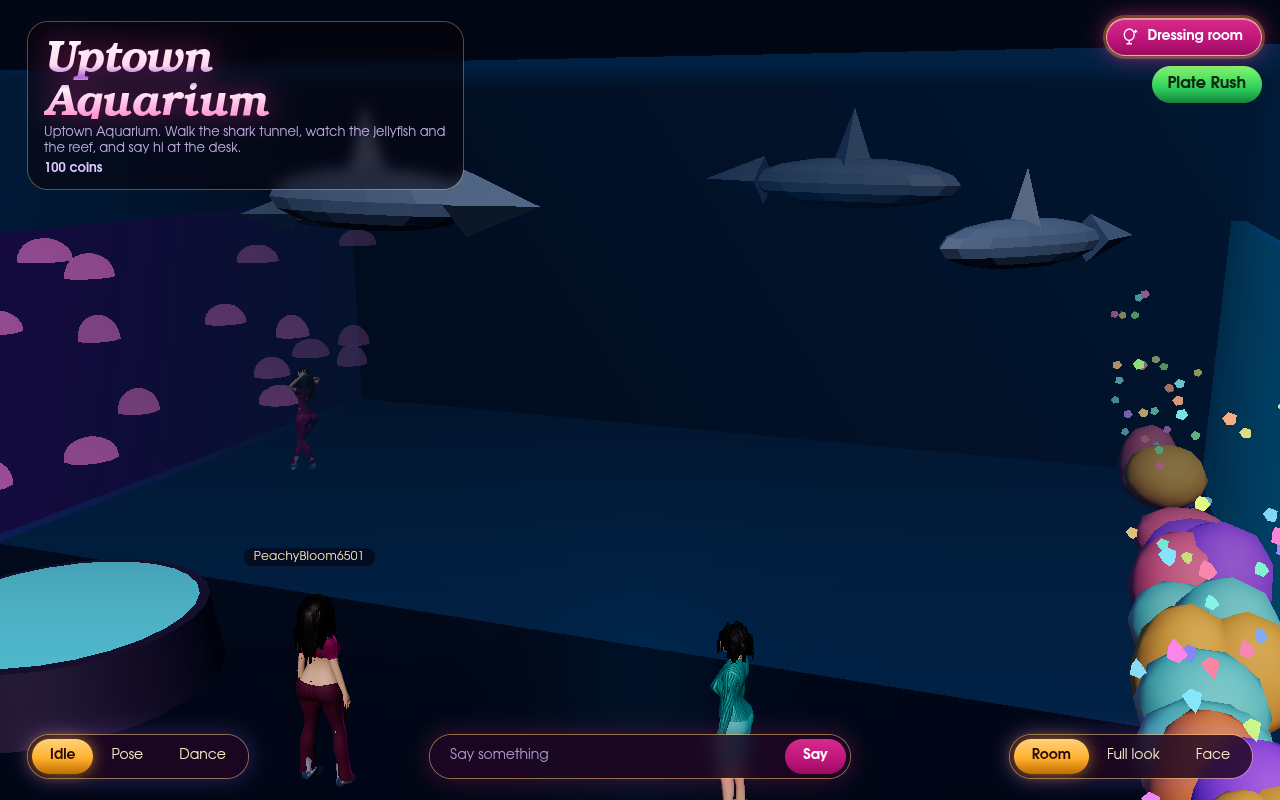
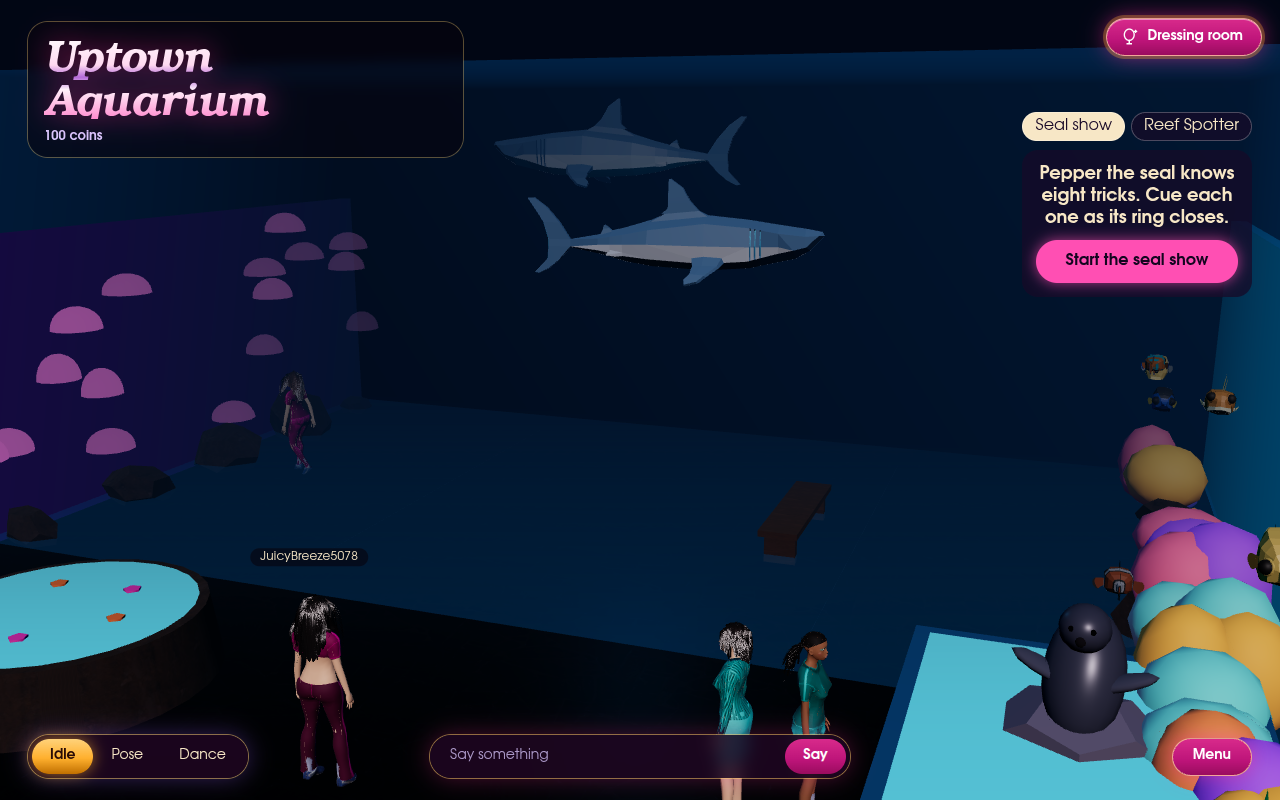
feat(aquarium): animated sharks, manta and reef fish from the Quaternius fish packs

diff --git a/src/client/rooms/Aquarium.tsx b/src/client/rooms/Aquarium.tsx
@@ -1,4 +1,9 @@
 import { SealShow } from "./aquarium/SealShow.tsx";
+import { Suspense } from "react";
+import { SwimmingCreature } from "../creatures/Swimmer.tsx";
+import type { CreaturePose } from "../creatures/Creature.tsx";
+import type { FishKind } from "../../game/creatures.ts";
+import { useQuality } from "../world/quality.ts";
 import { useFrame } from "@react-three/fiber";
 import { useLayoutEffect, useMemo, useRef } from "react";
 import * as THREE from "three";
@@ -57,9 +62,7 @@ const CONTEXT: DialogueContext = { venue: "aquarium", neighborhood: "uptown" };
 
 // The shark tunnel: a glass half-pipe over the middle aisle, water beyond it.
 const TUNNEL = { z0: -6, z1: 1, radius: 3.2 };
-const SHARKS = 4;
 const JELLIES = 22;
-const FISH = 60;
 const CORAL = 34;
 
 const scratch = {
@@ -76,21 +79,80 @@ function rand(i: number, k: number): number {
   return x - Math.floor(x);
 }
 
-/** A shark: a long body with a dorsal fin and a tail, nose along +x. */
-function sharkGeometry() {
-  const body = new THREE.SphereGeometry(0.5, 14, 8).scale(1.6, 0.36, 0.42);
-  const fin = new THREE.ConeGeometry(0.16, 0.42, 4).translate(0, 0.32, 0);
-  const tail = new THREE.ConeGeometry(0.18, 0.5, 4)
-    .rotateZ(Math.PI / 2)
-    .translate(-0.95, 0, 0);
-  const parts = [body, fin, tail].map((g) => g.toNonIndexed());
-  const merged = new THREE.BufferGeometry();
-  const pos = parts.flatMap((g) =>
-    Array.from(g.getAttribute("position").array),
+const REEF_FISH: readonly FishKind[] = [
+  "cute-clownfish",
+  "cute-bluetang",
+  "cute-yellowtang",
+  "cute-butterflyfish",
+  "cute-mandarinfish",
+  "cute-goldfish",
+  "fish1",
+  "cute-zebraclownfish",
+  "fish2",
+  "cute-koi",
+  "fish3",
+  "cute-lionfish",
+  "cute-puffer",
+];
+const FISH_HIGH = 16;
+const FISH_LOW = 6;
+
+/** Sharks lap the tank over the tunnel; the mantas glide above them; a school
+ * of reef fish loops along the reef wall. Each is its own skinned mesh, so the
+ * low tier keeps fewer. */
+function Swimmers() {
+  const low = useQuality() === "low";
+  const zc = (TUNNEL.z0 + TUNNEL.z1) / 2;
+  const sharks = low ? 2 : 3;
+  const fish = low ? FISH_LOW : FISH_HIGH;
+  return (
+    <>
+      {Array.from({ length: sharks }, (_, i) => (
+        <SwimmingCreature
+          key={`shark${i}`}
+          kind="shark"
+          scale={1 + (i % 2) * 0.25}
+          path={(t, pose) =>
+            lap(pose, t * 0.22 + (i / sharks) * Math.PI * 2, i, zc)
+          }
+        />
+      ))}
+      {!low && (
+        <SwimmingCreature
+          kind="manta-ray"
+          path={(t, pose) => lap(pose, t * 0.15 + 1, 3, zc, 1.1)}
+        />
+      )}
+      {Array.from({ length: fish }, (_, i) => (
+        <SwimmingCreature
+          key={`fish${i}`}
+          kind={REEF_FISH[i % REEF_FISH.length] ?? "fish1"}
+          scale={1.4}
+          path={(t, pose) => reef(pose, t, i)}
+        />
+      ))}
+    </>
   );
-  merged.setAttribute("position", new THREE.Float32BufferAttribute(pos, 3));
-  merged.computeVertexNormals();
-  return merged;
+}
+
+/** A slow oval lap round the tank at angle `a`, nose along the way it goes (angle grows with time). */
+function lap(pose: CreaturePose, a: number, i: number, zc: number, k = 1) {
+  const rx = (5.4 + (i % 2) * 0.9) * k;
+  const rz = (2.6 + (i % 2) * 0.6) * k;
+  pose.x = Math.cos(a) * rx;
+  pose.y = 3.9 + (i % 2) * 0.8 + Math.sin(a * 2) * 0.25;
+  pose.z = zc + Math.sin(a) * rz;
+  pose.yaw = Math.atan2(-Math.sin(a) * rx, Math.cos(a) * rz);
+}
+
+/** Reef fish loop in a long thin oval along the right wall. */
+function reef(pose: CreaturePose, t: number, i: number) {
+  const lane = rand(i, 10);
+  const a = t * (0.4 + rand(i, 11) * 0.5) + i * 1.7;
+  pose.x = 6.5 + lane * 0.5 + Math.cos(a) * 0.35;
+  pose.y = 0.7 + rand(i, 12) * 2.6 + Math.sin(a * 2) * 0.1;
+  pose.z = Math.sin(a) * 5.5;
+  pose.yaw = Math.atan2(-Math.sin(a) * 0.35, Math.cos(a) * 5.5);
 }
 
 /**
@@ -102,17 +164,10 @@ function sharkGeometry() {
 export function Aquarium({ onPick }: { onPick: PickHandler }) {
   const calm = useReducedMotion();
   const dressing = useMemo(buildDressing, []);
-  const sharks = useRef<THREE.InstancedMesh>(null);
   const jellies = useRef<THREE.InstancedMesh>(null);
-  const fish = useRef<THREE.InstancedMesh>(null);
   const coral = useRef<THREE.InstancedMesh>(null);
-  const shark = useMemo(sharkGeometry, []);
   const bell = useMemo(
     () => new THREE.SphereGeometry(0.3, 12, 6, 0, Math.PI * 2, 0, Math.PI / 2),
-    [],
-  );
-  const fishShape = useMemo(
-    () => new THREE.ConeGeometry(0.06, 0.22, 5).rotateZ(-Math.PI / 2),
     [],
   );
   const coralShape = useMemo(() => new THREE.IcosahedronGeometry(0.35, 1), []);
@@ -133,38 +188,11 @@ export function Aquarium({ onPick }: { onPick: PickHandler }) {
     }
     m.instanceMatrix.needsUpdate = true;
     if (m.instanceColor) m.instanceColor.needsUpdate = true;
-    const f = fish.current;
-    if (f) {
-      for (let i = 0; i < FISH; i++)
-        f.setColorAt(i, new THREE.Color().setHSL(rand(i, 9), 0.9, 0.6));
-      if (f.instanceColor) f.instanceColor.needsUpdate = true;
-    }
-  }, [coral, fish]);
+  }, [coral]);
 
   useFrame(({ clock }) => {
     const t = clock.elapsedTime * (calm ? 0.3 : 1);
-    const { m, q, e, p, s } = scratch;
-    // sharks circle the tank in slow level laps, above and around the tunnel
-    const sh = sharks.current;
-    if (sh) {
-      for (let i = 0; i < SHARKS; i++) {
-        const a = t * 0.22 + (i / SHARKS) * Math.PI * 2;
-        const rx = 5.4 + (i % 2) * 0.9;
-        const rz = 2.6 + (i % 2) * 0.6;
-        const zc = (TUNNEL.z0 + TUNNEL.z1) / 2;
-        p.set(
-          Math.cos(a) * rx,
-          3.9 + (i % 2) * 0.8 + Math.sin(a * 2) * 0.25,
-          zc + Math.sin(a) * rz,
-        );
-        // nose (+x) along the direction of travel
-        e.set(0, Math.atan2(-Math.cos(a) * rz, -Math.sin(a) * rx), 0);
-        q.setFromEuler(e);
-        s.setScalar(1.6 + (i % 2) * 0.5);
-        sh.setMatrixAt(i, m.compose(p, q, s));
-      }
-      sh.instanceMatrix.needsUpdate = true;
-    }
+    const { m, q, p, s } = scratch;
     // jellyfish rise and sink, pulsing as they go
     const jl = jellies.current;
     if (jl) {
@@ -181,21 +209,6 @@ export function Aquarium({ onPick }: { onPick: PickHandler }) {
         jl.setMatrixAt(i, m.compose(p, q, s));
       }
       jl.instanceMatrix.needsUpdate = true;
-    }
-    // fish dart back and forth across the reef in loose schools
-    const fs = fish.current;
-    if (fs) {
-      for (let i = 0; i < FISH; i++) {
-        const lane = rand(i, 10);
-        const speed = 0.4 + rand(i, 11) * 0.5;
-        const z = Math.sin(t * speed + i) * 5.5;
-        p.set(6.2 + lane * 1.2, 0.6 + rand(i, 12) * 2.6, z);
-        e.set(0, Math.cos(t * speed + i) > 0 ? -Math.PI / 2 : Math.PI / 2, 0);
-        q.setFromEuler(e);
-        s.setScalar(1);
-        fs.setMatrixAt(i, m.compose(p, q, s));
-      }
-      fs.instanceMatrix.needsUpdate = true;
     }
   });
 
@@ -260,9 +273,9 @@ export function Aquarium({ onPick }: { onPick: PickHandler }) {
           depthWrite={false}
         />
       </mesh>
-      <instancedMesh ref={sharks} args={[shark, undefined, SHARKS]}>
-        <meshStandardMaterial color="#6a7f94" roughness={0.6} />
-      </instancedMesh>
+      <Suspense fallback={null}>
+        <Swimmers />
+      </Suspense>
       {/* the jellyfish bay, along the left wall */}
       <mesh position={[-7.6, 2, 0]}>
         <boxGeometry args={[0.2, 4, 13.6]} />
@@ -283,9 +296,6 @@ export function Aquarium({ onPick }: { onPick: PickHandler }) {
       </mesh>
       <instancedMesh ref={coral} args={[coralShape, undefined, CORAL]}>
         <meshStandardMaterial roughness={0.7} emissive="#331022" />
-      </instancedMesh>
-      <instancedMesh ref={fish} args={[fishShape, undefined, FISH]}>
-        <meshBasicMaterial toneMapped={false} />
       </instancedMesh>
       <SealShow />
       {/* the touch pool by the door */}
